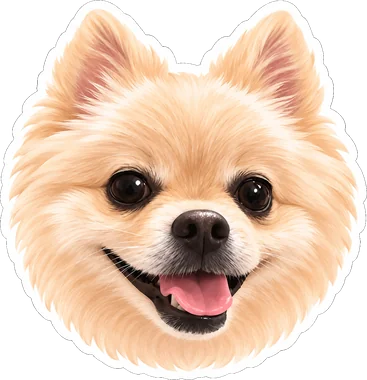
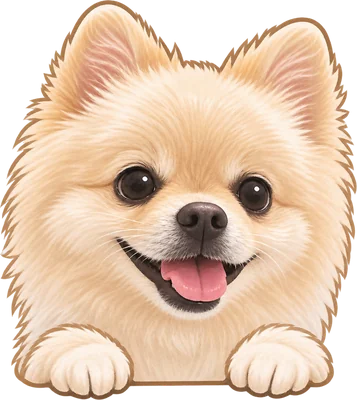
강아지 스티커를 앞발 있는 새 그림으로 교체
Claude-Session: https://claude.ai/code/session_01Bp4D1e8R3jVkLidfusfvCF

diff --git a/index.html b/index.html
@@ -45,7 +45,7 @@ h2{font-family:Jua,sans-serif;font-weight:400;font-size:26px;margin:0 0 14px}
 .b2.photo{width:96px;height:96px;right:8px;top:168px;background:url(balloon-2.webp) 50% 55%/84% no-repeat,radial-gradient(circle at 32% 26%,#F1ECFF,var(--lav) 58%,#A893F0);box-shadow:0 0 0 4px rgba(255,255,255,.7),0 10px 18px rgba(74,45,94,.22),inset -8px -10px 18px rgba(74,45,94,.16),inset 8px 10px 18px rgba(255,255,255,.85)}
 .b3.photo{width:92px;height:92px;left:auto;right:100px;top:172px;background:url(balloon-3.webp) 50% 55%/84% no-repeat,radial-gradient(circle at 32% 26%,#E6F5FF,var(--sky) 58%,#7CC3F2);box-shadow:0 0 0 4px rgba(255,255,255,.7),0 10px 18px rgba(74,45,94,.22),inset -8px -10px 18px rgba(74,45,94,.16),inset 8px 10px 18px rgba(255,255,255,.85)}
 .blob.photo{border-radius:0;box-shadow:none!important;background-color:transparent;background-repeat:no-repeat;background-position:center;background-size:contain;filter:drop-shadow(0 8px 10px rgba(74,45,94,.28))}
-.b1.photo{background-image:url(balloon-1.webp)}.b2.photo{background-image:url(balloon-2.webp)}.b3.photo{background-image:url(balloon-3.webp)}
+.b1.photo{background-image:url(balloon-1.webp?v=2)}.b2.photo{background-image:url(balloon-2.webp)}.b3.photo{background-image:url(balloon-3.webp)}
 .blob.photo::before,.blob.photo::after{display:none}
 .top .in{position:relative;z-index:1}
 .top h1{max-width:calc(100% - 130px);word-break:keep-all;font-size:clamp(40px,11vw,46px)}

diff --git a/sw.js b/sw.js
@@ -1,6 +1,6 @@
 // 인터넷이 될 때는 항상 최신 파일을, 안 될 때는 마지막으로 받아 둔 파일을 보여줘요.
-const CACHE = 'trip-app-v11';
-const FILES = ['./', './index.html', './manifest.webmanifest', './icon-192.png', './icon-512.png', './icon-180.png', './balloon-1.webp', './balloon-2.webp', './balloon-3.webp'];
+const CACHE = 'trip-app-v12';
+const FILES = ['./', './index.html', './manifest.webmanifest', './icon-192.png', './icon-512.png', './icon-180.png', './balloon-1.webp?v=2', './balloon-2.webp', './balloon-3.webp'];
 self.addEventListener('install', e => { e.waitUntil(caches.open(CACHE).then(c => c.addAll(FILES))); self.skipWaiting(); });
 self.addEventListener('activate', e => { e.waitUntil(caches.keys().then(ks => Promise.all(ks.filter(k => k !== CACHE).map(k => caches.delete(k))))); self.clients.claim(); });
 self.addEventListener('fetch', e => {
